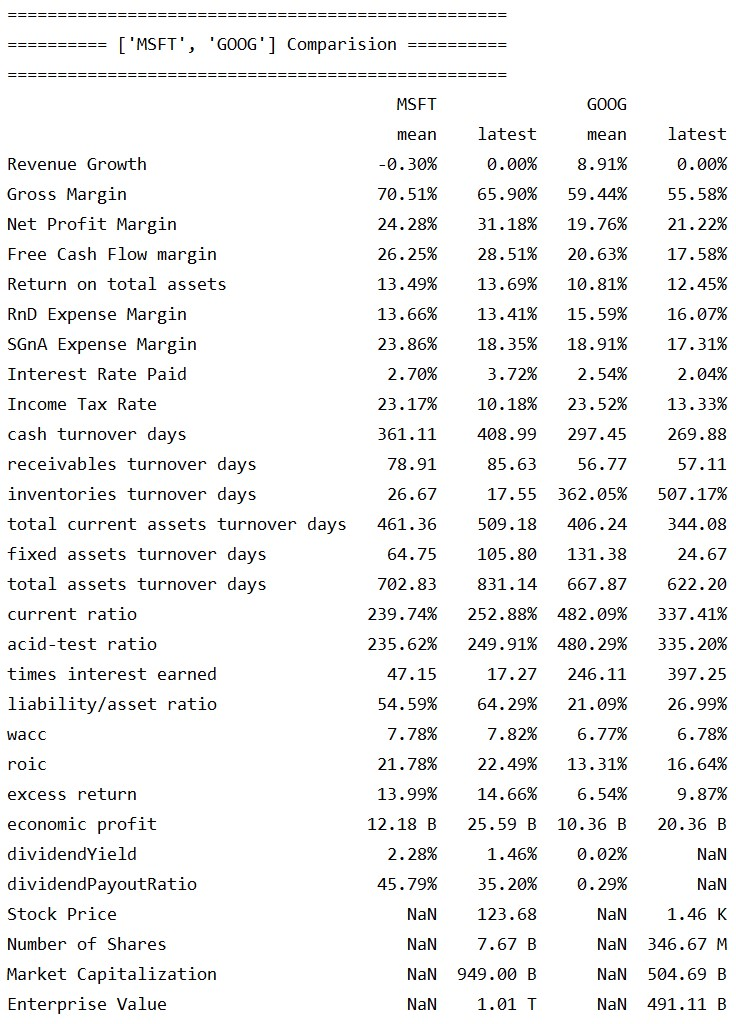
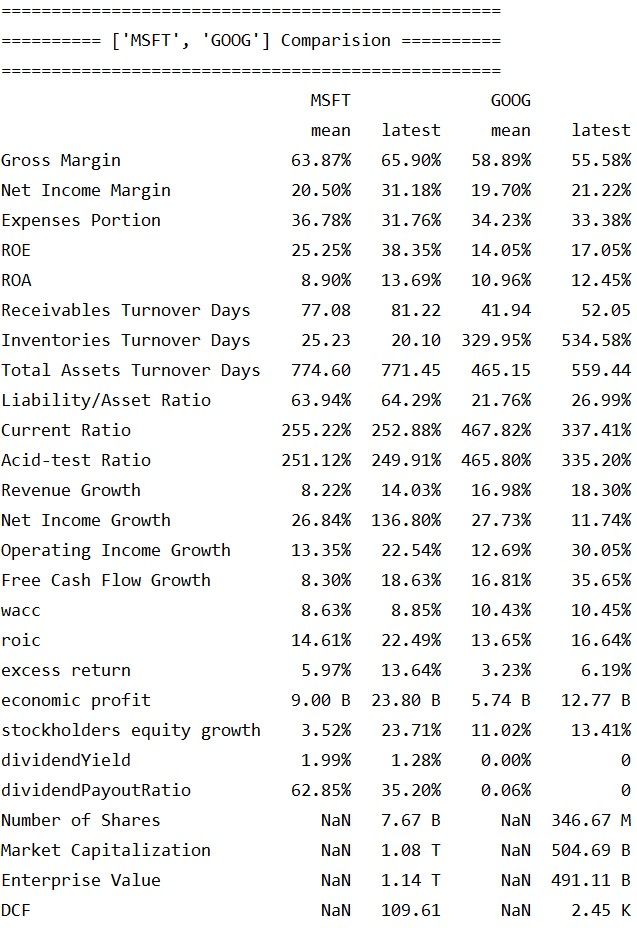
udpate code and readme

Changed region(s): [[0.0, 0.0, 1.0, 1.0], [0.0, 0.1562, 0.4176, 1.0], [0.3281, 0.3125, 0.4176, 0.4062]]

diff --git a/common/financial_insight.py b/common/financial_insight.py
@@ -70,55 +70,44 @@ class FinancialInsight:
         if self.profitability is None:
             self.profitability = pd.concat([
                 self.income_statement.data["Gross Margin"],
-                (self.income_statement.data["Net Income"].apply(pd.to_numeric, errors="coerce") /
-                 self.income_statement.data["Revenue"].apply(pd.to_numeric, errors="coerce")),
-                (self.income_statement.data["Operating Expenses"].apply(pd.to_numeric, errors="coerce") /
-                 self.income_statement.data["Revenue"].apply(pd.to_numeric, errors="coerce")),
-                (self.income_statement.data["Net Income"].apply(pd.to_numeric, errors="coerce") /
-                 self.balance_sheet.data["Total shareholders equity"].apply(pd.to_numeric, errors="coerce")),
-                (self.income_statement.data["Net Income"].apply(pd.to_numeric, errors="coerce") /
-                 self.balance_sheet.data["Total assets"].apply(pd.to_numeric, errors="coerce"))
+                self.income_statement.data["Net Income"] / self.income_statement.data["Revenue"],
+                self.income_statement.data["Operating Expenses"] / self.income_statement.data["Revenue"],
+                self.income_statement.data["Net Income"] / self.balance_sheet.data["Total shareholders equity"],
+                self.income_statement.data["Net Income"] / self.balance_sheet.data["Total assets"]
             ], axis=1)
             self.profitability.columns = [
                 "Gross Margin", "Net Income Margin", "Expenses Portion", "ROE", "ROA"
             ]
             self.profitability = self.profitability.sort_index().iloc[:(self.year if not self.quarter else 3 * self.year)].T
             self.profitability.columns = self.balance_sheet.balance_sheet.columns
-            self.profitability = self.profitability.apply(pd.to_numeric, errors='coerce').replace([np.inf, -np.inf], 0).fillna(0)
+            self.profitability = self.profitability.replace([np.inf, -np.inf], 0).fillna(0)
             self.profitability.insert(loc=0, column="mean", value=self.profitability.mean(axis=1))
 
     def get_operation_insights(self):
         if self.operation is None:
             self.operation = pd.concat([
-                365 / (self.income_statement.data["Revenue"].apply(pd.to_numeric, errors="coerce") /
-                       self.balance_sheet.data["Receivables"].rolling(2).mean().shift(-1)),
-                365 / (self.income_statement.data["Cost of Revenue"].apply(pd.to_numeric, errors="coerce") /
-                       self.balance_sheet.data["Inventories"].rolling(2).mean().shift(-1)),
-                356 / (self.income_statement.data["Revenue"].apply(pd.to_numeric, errors="coerce") /
-                       self.balance_sheet.data["Total assets"].rolling(2).mean().shift(-1))
+                365 / (self.income_statement.data["Revenue"] / self.balance_sheet.data["Receivables"].rolling(2).mean().shift(-1)),
+                365 / (self.income_statement.data["Cost of Revenue"] / self.balance_sheet.data["Inventories"].rolling(2).mean().shift(-1)),
+                356 / (self.income_statement.data["Revenue"] / self.balance_sheet.data["Total assets"].rolling(2).mean().shift(-1))
             ], axis=1)
             self.operation.columns = [
-                "Receivables Turnover Period", "Inventories Turnover Period", "Total Assets Turnover Period"
+                "Receivables Turnover Days", "Inventories Turnover Days", "Total Assets Turnover Days"
             ]
             self.operation = self.operation.sort_index().iloc[:(self.year if not self.quarter else 3 * self.year)].T
             self.operation.columns = self.balance_sheet.balance_sheet.columns
-            self.operation = self.operation.apply(pd.to_numeric, errors='coerce').replace([np.inf, -np.inf], 0).fillna(0)
+            self.operation = self.operation.replace([np.inf, -np.inf], 0).fillna(0)
             self.operation.insert(loc=0, column="mean", value=self.operation.mean(axis=1))
 
     def get_solvency_insights(self):
         if self.solvency is None:
             self.solvency = pd.concat([
-                (self.balance_sheet.data["Total liabilities"].apply(pd.to_numeric, errors="coerce") /
-                 self.balance_sheet.data["Total assets"].apply(pd.to_numeric, errors="coerce")),
-                (self.balance_sheet.data["Total current assets"].apply(pd.to_numeric, errors="coerce") /
-                 self.balance_sheet.data["Total current liabilities"].apply(pd.to_numeric, errors="coerce")),
-                ((self.balance_sheet.data["Total current assets"].apply(pd.to_numeric, errors="coerce") -
-                  self.balance_sheet.data["Inventories"].apply(pd.to_numeric, errors="coerce")) /
-                 self.balance_sheet.data["Total current liabilities"].apply(pd.to_numeric, errors="coerce"))
+                self.balance_sheet.data["Total liabilities"] / self.balance_sheet.data["Total assets"],
+                self.balance_sheet.data["Total current assets"] / self.balance_sheet.data["Total current liabilities"],
+                (self.balance_sheet.data["Total current assets"] - self.balance_sheet.data["Inventories"]) / self.balance_sheet.data["Total current liabilities"]
             ], axis=1)
             self.solvency.columns = ["Liability/Asset Ratio", "Current Ratio", "Acid-test Ratio"]
             self.solvency = self.solvency.sort_index().iloc[:(self.year if not self.quarter else 3 * self.year)].T
-            self.solvency = self.solvency.apply(pd.to_numeric, errors='coerce').replace([np.inf, -np.inf], 0).fillna(0)
+            self.solvency = self.solvency.replace([np.inf, -np.inf], 0).fillna(0)
             self.solvency.columns = self.balance_sheet.balance_sheet.columns
             self.solvency.insert(loc=0, column="mean", value=self.solvency.mean(axis=1))
 
@@ -126,15 +115,15 @@ class FinancialInsight:
         if self.growth is None:
             self.growth = pd.concat([
                 self.income_statement.data["Revenue Growth"],
-                self.income_statement.data["Net Income"].apply(pd.to_numeric, errors="coerce").pct_change(-1).dropna()*np.sign(self.income_statement.data["Net Income"].apply(pd.to_numeric, errors="coerce").dropna().shift(periods=-1).dropna()),
-                self.income_statement.data["Operating Income"].apply(pd.to_numeric, errors="coerce").pct_change(-1),
-                self.cashflow_statement.data["Free Cash Flow"].apply(pd.to_numeric, errors="coerce").pct_change(-1)
+                self.income_statement.data["Net Income"].pct_change(-1).dropna()*np.sign(self.income_statement.data["Net Income"].shift(periods=-1).dropna()),
+                self.income_statement.data["Operating Income"].pct_change(-1).dropna()*np.sign(self.income_statement.data["Operating Income"].shift(periods=-1).dropna()),
+                self.cashflow_statement.data["Free Cash Flow"].pct_change(-1).dropna()*np.sign(self.cashflow_statement.data["Free Cash Flow"].shift(periods=-1).dropna())
             ], axis=1)
             self.growth.columns = [
                 "Revenue Growth", "Net Income Growth", "Operating Income Growth", "Free Cash Flow Growth"
             ]
             self.growth = self.growth.sort_index().iloc[:(self.year if not self.quarter else 3 * self.year)].T
-            self.growth = self.growth.apply(pd.to_numeric, errors='coerce').replace([np.inf, -np.inf], 0).fillna(0)
+            self.growth = self.growth.replace([np.inf, -np.inf], 0).fillna(0)
             self.growth.columns = self.balance_sheet.balance_sheet.columns
             self.growth.insert(loc=0, column="mean", value=self.growth.mean(axis=1))
 

diff --git a/main.py b/main.py
@@ -11,14 +11,25 @@ if __name__ == "__main__":
     risk_free_return = 0.009
 
     # adjust the number to toggle functions
-    number = 0
+    number = 1.2
 
     # get fundamentals & insights for a company
-    if number == 0:
-        analyze_company("CDE", risk_free_return, quarter=quarter, year=year)
+    if number == 1.1:
+        analyze_company("MSFT", risk_free_return, quarter=quarter, year=year)
+
+    # compare fundamentals, specifying ticker_list will overwrite tickers loaded from ticker_list_file
+    elif number == 1.2:
+        ticker_list_file = r"./data/company_tickers_to_compare_fundamentals.txt"
+        ticker_list = ["MSFT", "GOOG"]
+        if len(ticker_list) == 0 and not os.path.exists(ticker_list_file):
+            print(f"ERROR: path does not exist: {ticker_list_file}")
+        if len(ticker_list) == 0:
+            with open(ticker_list_file, 'r', encoding='utf-8') as fp:
+                ticker_list = set([ticker.strip() for ticker in fp.readlines()])
+        compare_companies(ticker_list, risk_free_return)
 
     # scrape (possibly) all US listed companies' fundamentals
-    elif number == 1:
+    elif number == 1.3:
         ticker_list_file = r"./data/all_tickers_amex_nasdaq_nyse_20200419.txt"
         scraping_result_file = r"./data/company_scrapings.tsv"
         if not os.path.exists(ticker_list_file):
@@ -27,27 +38,15 @@ if __name__ == "__main__":
             ticker_list = set([t.strip() for t in fp.readlines()])
         scrape_company_fundamentals(ticker_list, scraping_result_file, risk_free_return)
 
-    # compare fundamentals, specifying ticker_list will overwrite tickers loaded from ticker_list_file
-    elif number == 2:
-        ticker_list_file = r"./data/company_tickers_to_compare_fundamentals.txt"
-        ticker_list = ["NEM", "GOLD", "AEM", "KL", "AU", "KGC", "GFI", "BTG", "BVN", "AUY", "NG", "AGI", "SSRM", "PVG", "CDE", "HMY", "IAG", "HL", "EGO", "EQX", "GSS"]
-        # ticker_list = ["NEM", "GOLD"]
-        if len(ticker_list) == 0 and not os.path.exists(ticker_list_file):
-            print(f"ERROR: path does not exist: {ticker_list_file}")
-        if len(ticker_list) == 0:
-            with open(ticker_list_file, 'r', encoding='utf-8') as fp:
-                ticker_list = set([ticker.strip() for ticker in fp.readlines()])
-        compare_companies(ticker_list, risk_free_return)
-
     # get a list of  tickers' annualized return and risk over past 5 years
-    elif number == 3:
+    elif number == 2.1:
         ticker_list = ["NEM", "GOLD", "AEM", "KL", "AU", "KGC", "GFI", "BTG", "BVN", "AUY", "NG", "AGI", "SSRM", "PVG", "CDE", "HMY", "IAG", "HL", "EGO", "EQX", "GSS"]
         print('\t'.join(['ticker', 'annualized return', 'annualized risk', 'beta']))
         for t in ticker_list:
             print('\t'.join([t] + [str(round(d, 4)) for d in Asset(t).get_expected_yearly_return_risk_beta()]))
 
     # scrape asset price expected daily return and risk
-    elif number == 4:
+    elif number == 2.2:
         ticker_list_file = r"./data/first_round_filtering.txt"
         scraping_result_file = r"./data/asset_daily_return_risk.tsv"
         with open(ticker_list_file, 'r', encoding='utf-8') as fp:
@@ -55,50 +54,50 @@ if __name__ == "__main__":
         scrape_asset_return_risk(ticker_list, scraping_result_file)
 
     # plot a list of tickers return & risk from a tsv file with 3 columns: ticker, return, and risk
-    elif number == 5:
+    elif number == 2.3:
         asset_return_risk_file_path = r"./data/asset_daily_return_risk.tsv"
         highlights = []  # to highlight certain assets
         only_show = []  # to only plot certain assets
         plot_assets_in_return_risk_plane(asset_return_risk_file_path, set(highlights), set(only_show))
 
     # plot portfolio assets correlation
-    elif number == 6:
+    elif number == 3.1:
         asset_tickers = ["KL", "GLD", "IVV"]
         p = Portfolio()
         p.invest(asset_tickers)
         p.plot_asset_correlation()
 
     # risk-optimized portfolio with MPT
-    elif number == 7:
+    elif number == 3.2:
         asset_tickers = []
         mpt_optimization(asset_tickers)
 
     # sharpe ratio-optimized portfolio with MPT
-    elif number == 8:
+    elif number == 3.3:
         asset_tickers = ["KL", "GLD", "MSFT"]
         mpt_optimization(asset_tickers, risk_free_return)
 
     # evaluate MPT optimization
-    elif number == 9:
+    elif number == 3.4:
         asset_tickers = ["KL", "GLD", "MSFT"]
         mpt_evaluation(asset_tickers, risk_free_return)
 
     # use customized weights to get the risk/sharpe ratio/return of the portfolio
-    elif number == 10:
+    elif number == 3.5:
         asset_tickers = ["MSFT", "AAPL", "V", "INTC", "MA"]
         customize_weights = [18.46/(18.46+18.25+4.46+3.8+3.5),18.25/(18.46+18.25+4.46+3.8+3.5),4.46/(18.46+18.25+4.46+3.8+3.5),3.8/(18.46+18.25+4.46+3.8+3.5),3.5/(18.46+18.25+4.46+3.8+3.5)]
         mpt_customize_weights(asset_tickers, customize_weights, risk_free_return)
 
     # plot 20-day risk & return for an asset
-    elif number == 11:
+    elif number == 4.1:
         Asset.print_yearly_return_risk(["MSFT"])
 
     # plot company stock price and revenue correlation
-    elif number == 12:
+    elif number == 4.2:
         c = Company("KL")
         c.plot_stock_price_with_revenue()
 
-    elif number == 13:
+    elif number == 5:
         # a = Asset("MSFT")
         # print(a.get_beta())
         c = Company("BT")

diff --git a/ReadME.md b/ReadME.md
@@ -7,58 +7,54 @@
 
 # How to run
 1. open main.py, go to the main function
-2. set three global variables: ```risk_free_return```, ```market_return```, ```quarter```
+2. set three global variables: ```risk_free_return```, ```year```, ```quarter```
     - ```risk_free_return```: 3-month treasury bill yield. It's updated daily. To get the latest yield, click [here](https://www.treasury.gov/resource-center/data-chart-center/interest-rates/Pages/TextView.aspx?data=yield) 
-    - ```market_return```: this is S&P 500 last 5 year return (either average or compound), use VOO/IVV/SPY last 5 year return is fine
+    - ```year```: how many years back do you want to get the data. max is 10
     - ```quarter```: a boolean value to toggle quarter or annual report for company fundamentals
 3. adjust the ```number``` variable below the global variables to run what you need. 
 4. You will need to read on to know what each number indicates.
 
 # Company Fundamentals Analysis
 - analyze a company's fundamentals
-    - set ```number = 0```
-    - set ```ticker``` to be a company of interest under the code ```if number == 0:```
-    - run main.py
-    - in the console, you will see this company's balance sheet, income statements, cash flow statements up to past 10 years.
-    - also includes insights on company's balance sheet structure, analysis of profitability, operating capabilities, solvency, and investment value
-    - profitability analysis includes:
-        - revenue growth
-        - gross margin
-        - net profit margin
-        - free cash flow margin
-        - return on total assets
-        - research & development expense margin
-        - sales, marketing, administrative expense margin
-        - interest rate paid
-        - income tax rate
-    - operating capabilities analysis includes:
-        - cash turnover days
-        - account receivables turnover days
-        - inventories turnover days
-        - total current assets turnover days
-        - fixed assets turnover days
-        - total assets turnover days
-    - solvency analysis includes:
-        - current ratio
-        - acid-test ratio
-        - times interest earned
-        - total liability/total asset ratio
-    - investment value analysis includes:
-        - weighted average capital cost (wacc)
-        - return on invested capital (roic)
-        - excess return
-        - economic profit
-        - dividend yield
-        - dividend payout ratio
-        - stock price
-        - number of shares
-        - market capitalization
-        - enterprise value
+    - set ```number = 1.1```, fill in the function with a company stock ticker
+    - run ```main.py``` 
+    - it will print historical financials including balance sheet, income statements, & cash flow statements
+    - the console also shows the following analysis:
+        - profitability:
+            - Gross Margin
+            - Net Profit Margin
+            - Expenses Portion
+            - ROE
+            - ROA
+        - operating:
+            - Receivables Turnover Days
+            - Inventories Turnover Days
+            - Total Assets Turnover Days
+        - solvency:
+            - Liability/Asset Ratio
+            - Current Ratio
+            - Acid-test Ratio
+        - growth:
+            - Revenue Growth
+            - Net Income Growth
+            - Operating Income Growth
+            - Free Cash Flow Growth
+        - investing:
+            - wacc
+            - roic
+            - excess return
+            - economic profit
+            - stockholders equity growth
+            - dividendYield
+            - dividendPayoutRatio
+            - Number of Shares
+            - Market Capitalization
+            - Enterprise Value
  
  # Companies' Fundamentals Comparison
- - set ```number = 1```
+ - set ```number = 1.2```
  - either prepare a .txt file containing company tickers at each line, or specify the company tickers in ```ticker_list``` variable
- - run main.py
+ - run ```main.py```
  - it will produce a table comparing different companies profitability, operating capabilities, solvency and investment value
  - the comparison provides both mean and latest values
  - below picture shows an example
@@ -66,7 +62,7 @@
  ![Companies' Fundamentals Comparion](docs/2_companies_fundamentals_comparison.jpg?raw=true "Companies' Fundamentals Comparion")
 
 # Plot Assets Correlations
-- set ```number = 6```
+- set ```number = 3.1```
 - fill in tickers of interested in ```asset_tickers``` variable
 - run main.py
 - it will generate an image describing the pair-wise assets correlations
@@ -78,7 +74,7 @@
     - this slide introduces in great details and a friendly way to help understand & apply MPT optimization
 - #### optimizing risk
     - when optimizing risk, the optimizer will find the optimal weights for the assets to minimize the portfolio risk
-    - set ```number = 7```
+    - set ```number = 3.2```
     - set ```asset_tickers``` to be a list of tickers of interest
     - run main.py
     - in the console, optimal weights for each assets will be provided
@@ -89,7 +85,7 @@
     ![efficient frontier](docs/7_mpt_risk_ef.png?raw=true "efficient frontier")
 - #### optimizing sharpe ratio
     - when optimizing sharpe ratio, the optimizer will find the optimal weights for assets to maximize the portfolio sharpe ratio
-    - set ```number = 8```
+    - set ```number = 3.3```
     - set ```asset_tickers``` to be a list of tickers of interest
     - run main.py
     - in the console, optimal weights for each assets will be provided
@@ -116,8 +112,8 @@
         - apply these weights to the data in year yi, so as to get the best-possible portfolio in that year
     - we compare prediction and ground truth
 - how to run evaluation
-    - set ```number = 9```
-    - fill in ```asset_ticers``` under ```elif number == 9``` with ticker strings of interest
+    - set ```number = 3.4```
+    - fill in ```asset_ticers``` with ticker strings of interest
     - run main.py
     - this will generate 4 pictures
         - risk optimization
